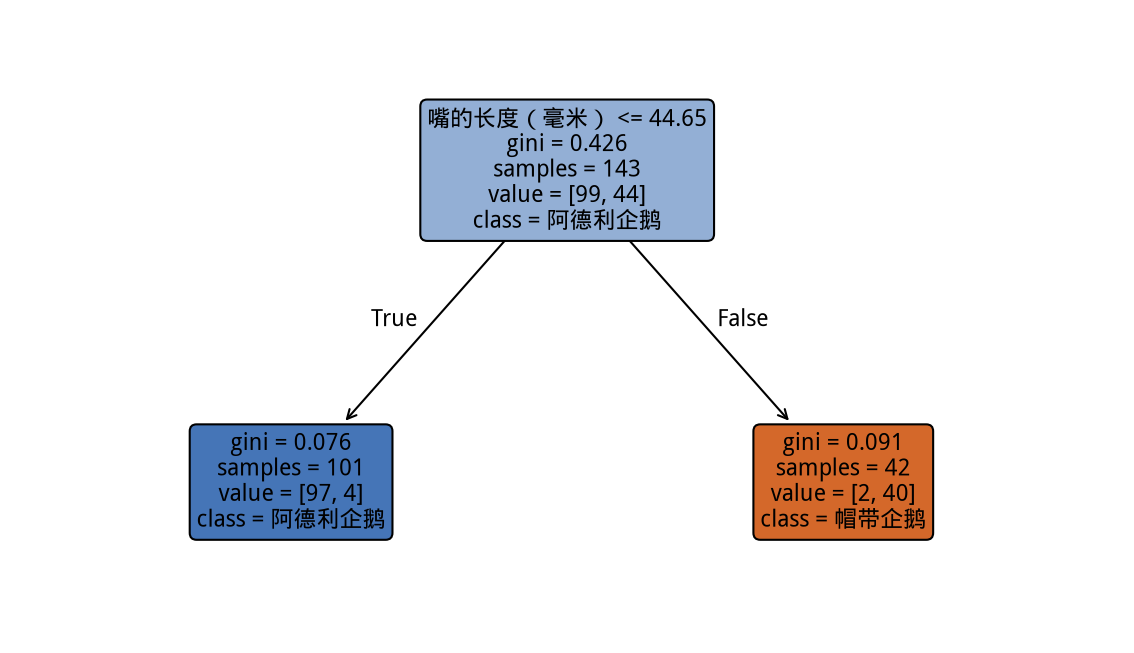
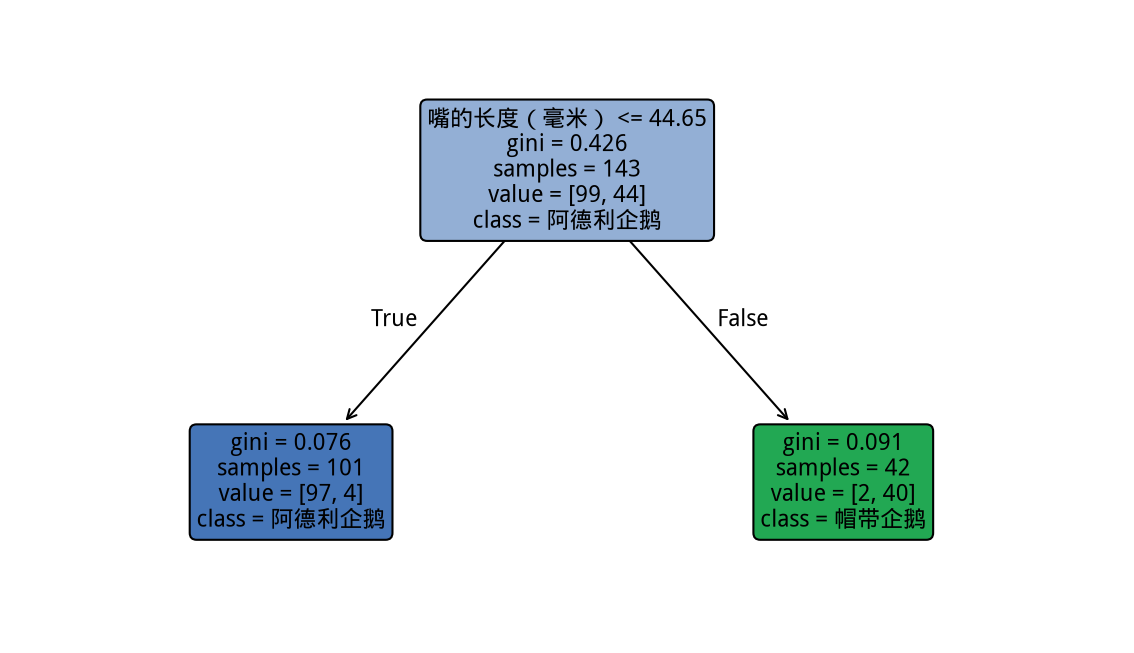
style: Chinstrap 与母企鹅改绿色（区分误判红），初步分类左右分栏保持单行
Coze-Commit-Type: user
Coze-User-ID: 930658547675948
Coze-Conversation-ID: 351630763182850

Changed region(s): [[0.6481, 0.6432, 0.8333, 0.827]]

diff --git a/src/components/tab4-classify.ts b/src/components/tab4-classify.ts
@@ -186,7 +186,7 @@ export function renderClassify(container: HTMLElement): ClassifyTab {
         'sex',
         '问题二 · 用一条线分开公企鹅和母企鹅',
         '同种企鹅公母差别不大，三种企鹅混在一起分。这条线还能分对多少？',
-        `<span class="flex items-center gap-0.5">${symbolSvg('circle', '#E15A85', 15)}${symbolSvg('circle', '#2F5D8A', 15)}</span>`,
+        `<span class="flex items-center gap-0.5">${symbolSvg('circle', '#16A34A', 15)}${symbolSvg('circle', '#2F5D8A', 15)}</span>`,
         '三种企鹅一起分',
       )}
     </div>
@@ -203,7 +203,7 @@ export function renderClassify(container: HTMLElement): ClassifyTab {
     <!-- 主体：左图 + 右指标 -->
     <div class="card fade-up mt-6 p-5 md:p-6">
       <div id="classify-legend" class="legend-bar mb-4"></div>
-      <div class="grid gap-6 lg:grid-cols-[minmax(0,1fr)_330px]">
+      <div class="grid grid-cols-[minmax(0,1fr)_300px] gap-4">
         <div class="min-w-0">
           <div id="classify-chart" class="w-full" style="height:380px"></div>
           <p class="mt-3 text-xs leading-relaxed text-mist">

diff --git a/src/components/tab3-explore.ts b/src/components/tab3-explore.ts
@@ -91,7 +91,7 @@ export function renderExplore(container: HTMLElement): ExploreTab {
         'sex',
         '问题二 · 区分公企鹅和母企鹅',
         '同一种企鹅里，公的和母的身材差别不大。颜色代表公母、形状代表物种，看看能否分得开？',
-        `<span class="flex items-center gap-0.5">${symbolSvg('circle', '#E15A85', 15)}${symbolSvg('circle', '#2F5D8A', 15)}</span>`,
+        `<span class="flex items-center gap-0.5">${symbolSvg('circle', '#16A34A', 15)}${symbolSvg('circle', '#2F5D8A', 15)}</span>`,
         '颜色 = 公母 · 形状 = 物种',
       )}
     </div>

diff --git a/src/data/dataset.ts b/src/data/dataset.ts
@@ -65,7 +65,7 @@ export const SPECIES_META: Record<Species, SpeciesMeta> = {
   },
   Chinstrap: {
     cn: '帽带企鹅',
-    color: '#D2601F',
+    color: '#16A34A',
     symbol: 'triangle',
     symbolLabel: '三角',
     latin: 'Pygoscelis antarcticus',
@@ -114,7 +114,7 @@ export const FEATURES: FeatureMeta[] = [
 ];
 
 export const SEX_META: Record<Sex, { label: string; color: string }> = {
-  female: { label: '母企鹅', color: '#E15A85' },
+  female: { label: '母企鹅', color: '#16A34A' },
   male: { label: '公企鹅', color: '#2F5D8A' },
 };
 

diff --git a/tailwind.config.js b/tailwind.config.js
@@ -22,9 +22,9 @@ export default {
           soft: '#FFF1E4',
         },
         adelie: '#3D6FB4',
-        chinstrap: '#D2601F',
+        chinstrap: '#16A34A',
         gentoo: '#7FA53C',
-        femalepink: '#E15A85',
+        femalepink: '#16A34A',
         maleblue: '#2F5D8A',
         ink: '#12324F',
         mist: '#5A7590',

diff --git a/scripts/generate_tree_models.py b/scripts/generate_tree_models.py
@@ -30,8 +30,8 @@ FEATURES = [
     ("mass", "体重（克）"),
 ]
 COMBOS = [(1, 10), (1, 60), (2, 10), (2, 60)]
-# 物种规范色（与全站一致，0-255 整数制，sklearn _color_brew 要求）：Adelie #3D6FB4 / Chinstrap #D2601F
-BRAND_PALETTE = [(61, 111, 180), (210, 96, 31)]
+# 物种规范色（与全站一致，0-255 整数制，sklearn _color_brew 要求）：Adelie #3D6FB4 / Chinstrap #16A34A
+BRAND_PALETTE = [(61, 111, 180), (22, 163, 74)]
 
 
 def setup_font() -> None:
@@ -203,7 +203,7 @@ def main() -> None:
             "palette": {
                 "note": "节点颜色 = 该节点偏向哪一类（越深越确定）",
                 "Adelie": "#3D6FB4",
-                "Chinstrap": "#D2601F",
+                "Chinstrap": "#16A34A",
             },
         },
         "combos": combos,

diff --git a/DESIGN.md b/DESIGN.md
@@ -17,11 +17,11 @@
 - 主强调（喙橙）：#F97316（按钮、激活态、警示徽章）
 - 辅助强调（冰川青）：#1FA9C9（交互高亮、链接、选中描边）
 - 正文深色：#12324F；次级文字：#5A7590
-- 物种规范色（与图表严格一致，源自经典 penguins 配图）：
+- 物种规范色（与图表严格一致）：
   - Adelie #3D6FB4（圆点 circle）
-  - Chinstrap #D2601F（三角 triangle）
+  - Chinstrap #16A34A（绿色三角 triangle；不用橙色，避免与误判红混淆）
   - Gentoo #7FA53C（方块 rect）
-- 性别规范色（研究问题二）：female #E15A85（莓粉）、male #2F5D8A（深海蓝）
+- 性别规范色（研究问题二）：female #16A34A（绿）、male #2F5D8A（深海蓝）；性别模式下散点颜色按性别、形状仍按物种，Chinstrap 母企鹅即"绿色三角"
 
 ### 字体
 - 中文正文：Noto Sans SC（fonts.googleapis.cn 引入），回退系统黑体
@@ -48,7 +48,7 @@
 - 坐标轴中文：嘴的长度（毫米）/ 嘴的厚度（毫米）/ 翅膀长度（毫米）/ 体重（克），千分位格式化
 
 ## 初步分类页（Tab 04）规范
-- 布局复用探索分析：研究问题卡 + 特征芯片；主体左右分栏（lg 左图 1fr / 右指标栏 330px，移动端堆叠）
+- 布局复用探索分析：研究问题卡 + 特征芯片；主体左右分栏始终保持一行（左图 1fr / 右指标栏 300px，任何屏宽都不换行堆叠，便于图与指标对照观察）
 - 模型决策虚线：喙橙 #F97316 dashed 2.4px + 深蓝加粗标签「分界线 xx mm」（单特征垂直 cutoff 线 / 双特征直线段），探索分析页保持无分割线
 - 模型全部预计算（scripts/precompute-classifiers.mjs → src/data/classifier-models.json），页面禁止运行时训练
 - 教学去算法化（重要）：页面文案禁止出现"决策树/OLS/分数/0.5/方程/模型参数"等术语；规则表述为"电脑自动画一条分界线"+ cutoff 规则本身（如"嘴的长度 ≤ 44.65 毫米 → 阿德利企鹅"）
@@ -61,7 +61,7 @@
 - 教学递进（重要）：Tab 04 去算法化，Tab 05 首次正式引入"决策树 / depth / min-leaf / 混淆矩阵"术语；核心叙事 = "人给例子，AI 自己学规则"（机器学习相对人工规则的大变化）
 - 建模设定：Adelie vs Chinstrap、2007-2008 训练集 100% 训练（无 train-test 划分，不出现测试集/2009 字样，允许过拟合），全 4 特征由模型自选
 - 参数芯片：depth(1,2) 与 min-leaf(10,60) 两组，选中态复用喙橙填充样式（与特征芯片一致）
-- 树图（sklearn 预生成，public/trees/）：节点配色 = 物种规范色（Adelie 蓝 #3D6FB4 / Chinstrap 橙 #D2601F，越深越确定）；白底卡 + 横向滚动兜底
+- 树图（sklearn 预生成，public/trees/）：节点配色 = 物种规范色（Adelie 蓝 #3D6FB4 / Chinstrap 绿 #16A34A，越深越确定）；白底卡 + 横向滚动兜底
 - 混淆矩阵配色与 Tab 04 一致：判对 emerald-50/emerald-200，判错 rose-50/rose-200；准确率色阶同 Tab 04（≥90% 绿 / ≥70% 冰川青 / <70% 喙橙）
 - 真实结果特性：4 组参数准确率相同（95.8%，depth=2 只提纯不翻转判断），提示文案必须动态比较两组成绩、如实呈现"成绩没变"并解释原因，禁止虚构差异
 - 规则文本：树规则中文化（如"嘴的长度（毫米） ≤ 44.65 → 阿德利企鹅"），同特征同方向条件合并为更紧阈值；叶子标注样本构成

diff --git a/AGENTS.md b/AGENTS.md
@@ -45,7 +45,7 @@
 - 生成脚本：`python3 scripts/generate_tree_models.py`（需 scikit-learn + matplotlib，见脚本头注释）。产物：`public/trees/*.png` + `src/data/tree-models.json`，前端只查表渲染。
 - 模型：sklearn DecisionTreeClassifier（gini），Adelie vs Chinstrap，2007-2008 训练集 100% 训练（无 train-test 划分，教学允许过拟合），全 4 特征，4 组参数 = max_depth(1,2) × min_samples_leaf(10,60)。
 - 结果特征：min-leaf=60 时 depth 1/2 树完全相同（第一层切完后每堆不足 60 只，无法二次分裂），准确率 87.4%；min-leaf=10 时 95.8%（第二层切分只提纯不翻转判断）。前端提示文案按叶子数与成绩动态比较，勿改回"对比成绩"式静态文案。
-- 树图节点配色经 monkeypatch `_color_brew` 映射为全站物种规范色（Adelie #3D6FB4 / Chinstrap #D2601F）；中文字体使用文泉驿微米黑。
+- 树图节点配色经 monkeypatch `_color_brew` 映射为全站物种规范色（Adelie #3D6FB4 / Chinstrap #16A34A）；中文字体使用文泉驿微米黑。
 
 ## 包管理规范
 
